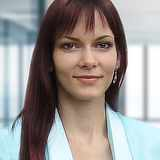
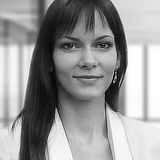
Černobílé responzivní fotky.

diff --git a/src/main/html/index.html b/src/main/html/index.html
@@ -89,28 +89,28 @@
             </div>
             <div class="list">
                 <figure style="order: 1">
-                    <img src="../image/people/denisa.jpg" alt="Denisa Brichtová"/>
+                    <img src="/image/people/denisa.jpg" srcset="/image/people/denisa-sm.jpg 80w, /image/people/denisa-2x.jpg 320w" alt="Denisa Brichtová"/>
                     <figcaption>
                         <h4>Denisa Brichtová</h4>
                         <p>UX designerka, MALL Pay</p>
                     </figcaption>
                 </figure>
                 <figure style="order: 3">
-                    <img src="../image/people/filip.jpg" alt="Filip Jirsák"/>
+                    <img src="/image/people/filip.jpg" srcset="/image/people/filip-sm.jpg 80w, /image/people/filip-2x.jpg 320w" alt="Filip Jirsák"/>
                     <figcaption>
                         <h4>Filip Jirsák</h4>
                         <p>Vedoucí projektu, OKsystem</p>
                     </figcaption>
                 </figure>
                 <figure style="order: 4">
-                    <img src="https://thispersondoesnotexist.com/image" alt="Marianna Líšková"/>
+                    <img src="/image/people/maja.jpg" srcset="/image/people/maja-sm.jpg 80w, /image/people/maja-2x.jpg 320w" alt="Marianna Líšková"/>
                     <figcaption>
                         <h4>Marianna Líšková</h4>
                         <p>Tester, MoroSystems</p>
                     </figcaption>
                 </figure>
                 <figure style="order: 5">
-                    <img src="https://thispersondoesnotexist.com/image" alt="Kateřina Pěkná"/>
+                    <img  src="/image/people/katka.jpg" srcset="/image/people/katka-sm.jpg 80w, /image/people/katka-2x.jpg 320w" alt="Kateřina Pěkná"/>
                     <figcaption>
                         <h4>Kateřina Pěkná</h4>
                         <p>UX designerka, OKsystem</p>
